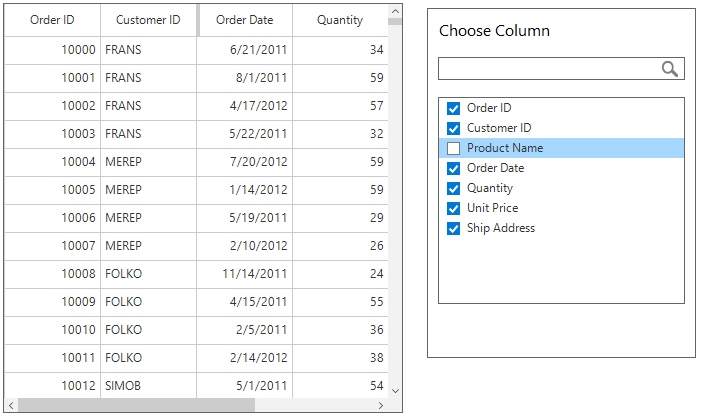
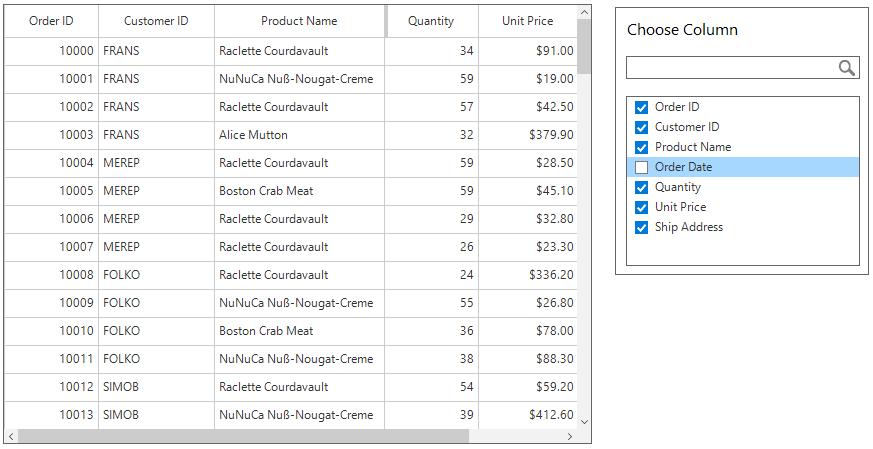
WF-45504 ColumnChooser custom sample is updated.

Changed region(s): [[0.0, 0.0, 1.0, 0.9952], [0.5991, 0.9019, 0.6591, 0.933]]

diff --git a/WindowsForms/SfDataGrid/InteractiveFeatures.MD b/WindowsForms/SfDataGrid/InteractiveFeatures.MD
@@ -542,8 +542,10 @@ public class ColumnChooserExt : ColumnChooser
     /// </summary>
     protected override void AddCancelButton()
     {
-        // Do nothing to avod adding the Cancel button.
-    }    
+        // Set the height for the checked listbox and column chooser.
+        this.CheckedListBox.Size = new Size(this.CheckedListBox.Size.Width, CheckedListBox.Size.Height + CancelButton.Height + 15);
+        this.MaximumSize = new Size(this.Size.Width, this.Size.Height - (CancelButton.Height + 15));
+    }  
 }
 {% endhighlight %}
 {% highlight vb %}
@@ -595,7 +597,8 @@ Public Class ColumnChooserExt
 	''' Overridden to cancel the adding of Cancel button.
 	''' </summary>
 	Protected Overrides Sub AddCancelButton()
-		' Do nothing to avod adding the Cancel button.
+	    Me.CheckedListBox.Size = New Size(Me.CheckedListBox.Size.Width, CheckedListBox.Size.Height + CancelButton.Height + 15)
+	    Me.MaximumSize = New Size(Me.Size.Width, Me.Size.Height - (CancelButton.Height + 15))
 	End Sub
 End Class
 {% endhighlight %}
@@ -620,7 +623,7 @@ Me.Controls.Add(columnChooser)
 
 ![Custom column chooser control](InteractiveFeatures_Images/ColumnChooser4.png)
 
-You can download the custom column chooser sample [here](http://www.syncfusion.com/downloads/support/directtrac/general/ze/CustomColumnChooser_Sample1073210002).
+You can download the custom column chooser sample [here](http://www.syncfusion.com/downloads/support/directtrac/general/ze/CustomColumnChooser_Sample-1194097955).
 
 ## ToolTip
 
